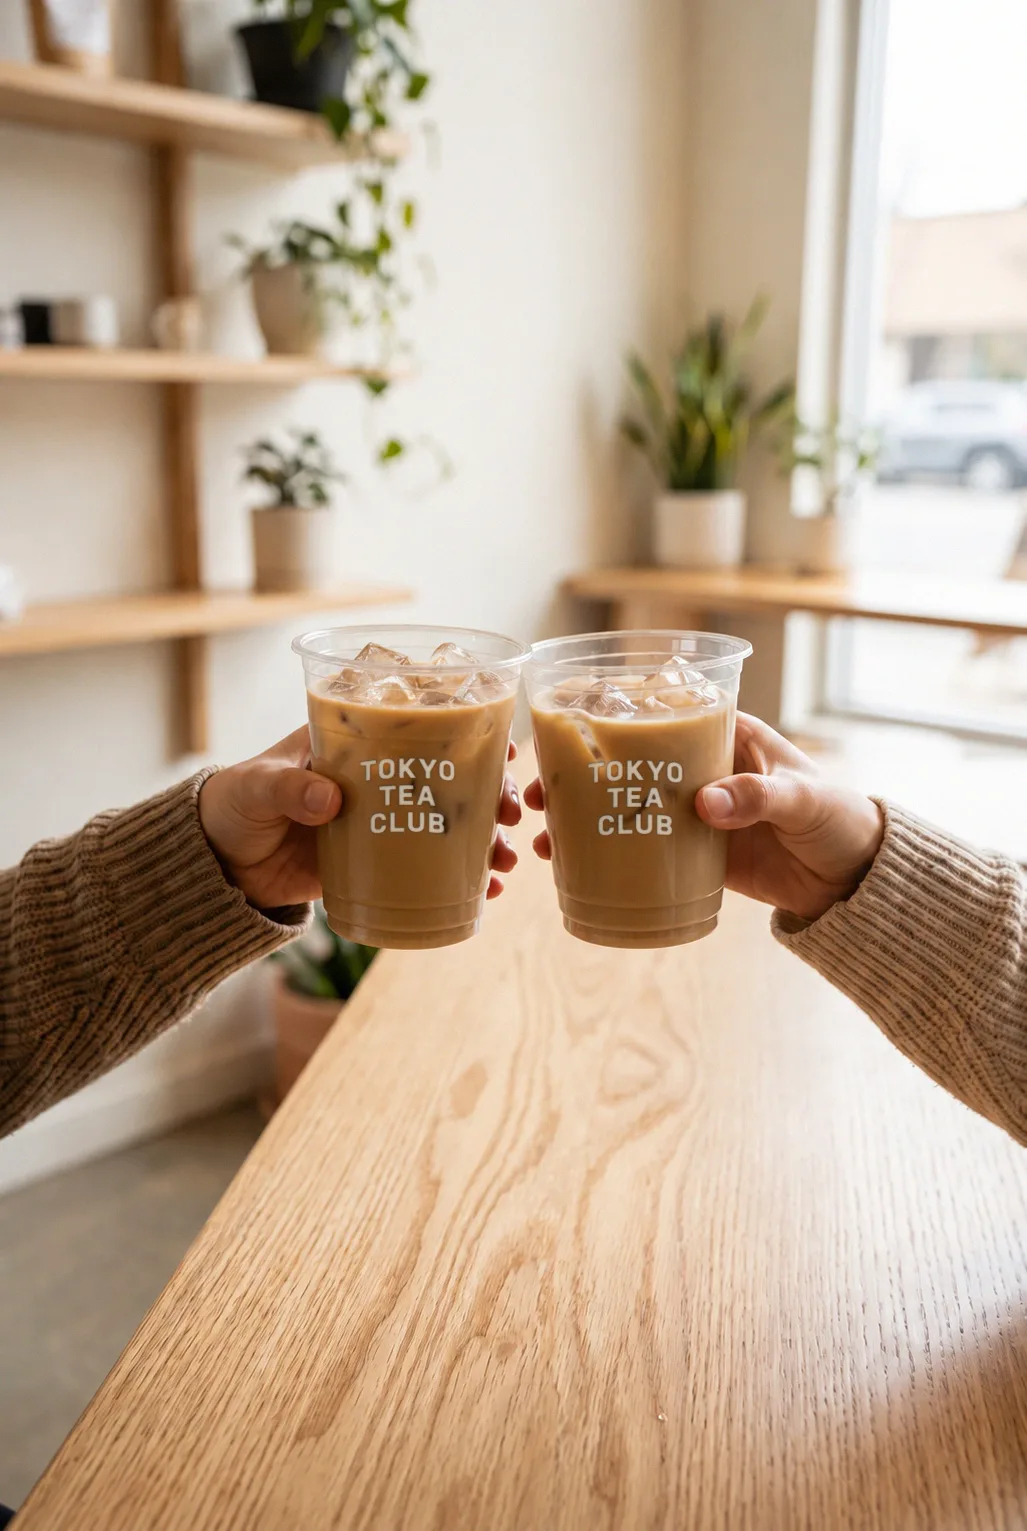
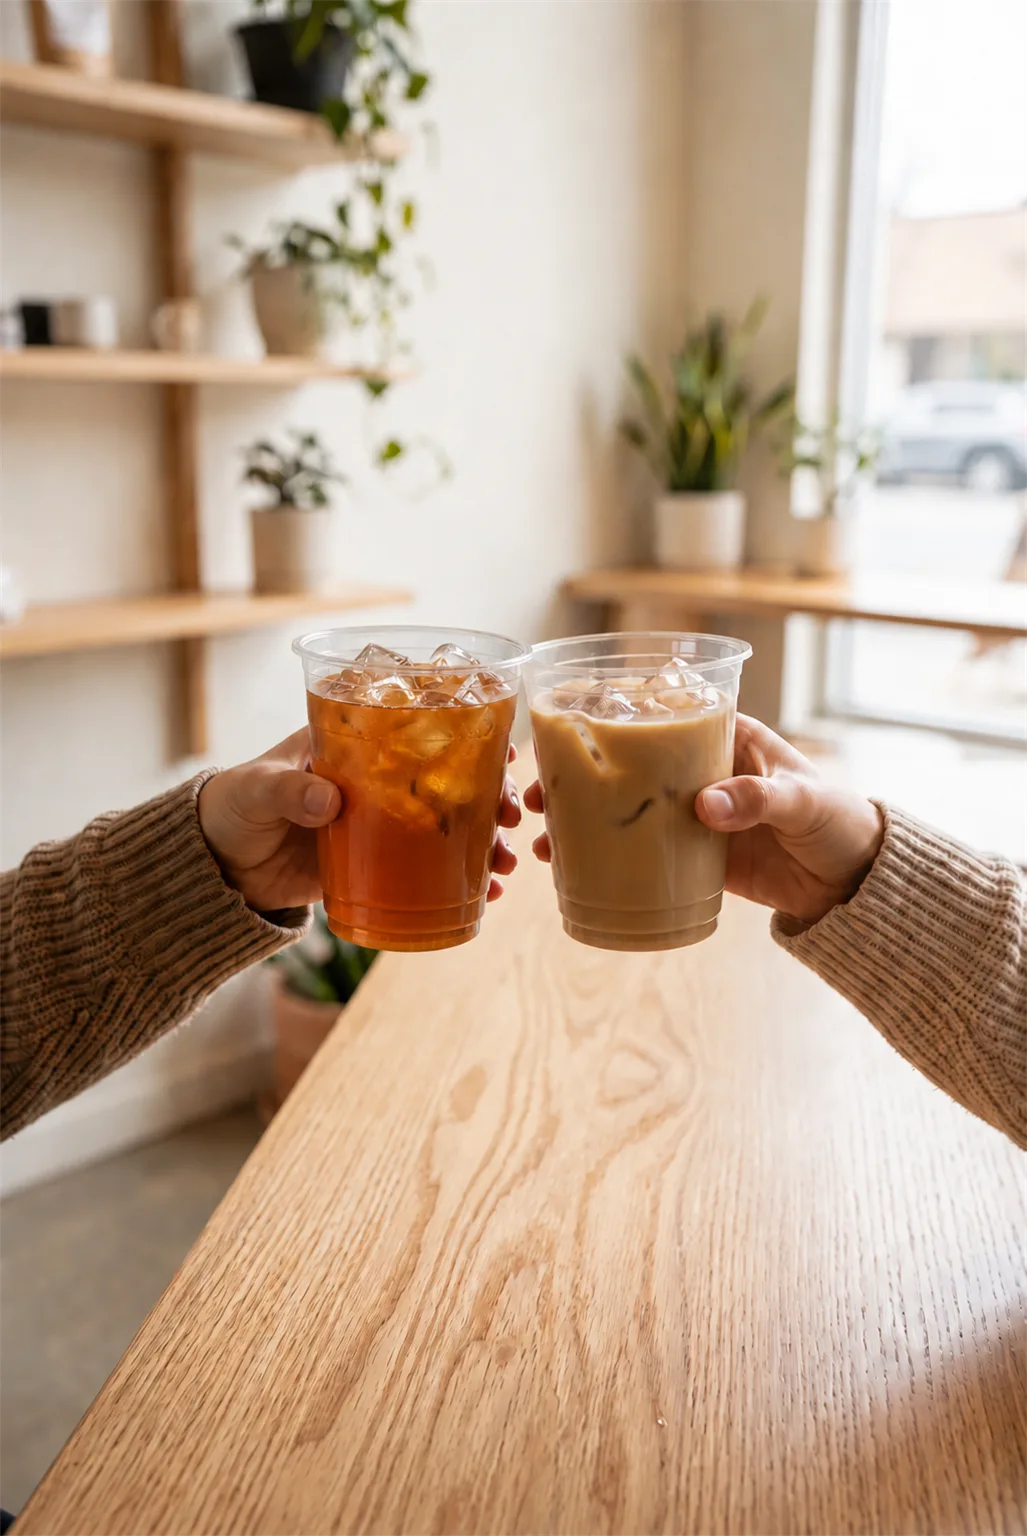
TEA TIMEはロゴなし・ストレートとミルクティーに、KOKUTOUは黒糖ほうじ茶ミルクティーに差し替え

diff --git a/index.html b/index.html
@@ -457,11 +457,11 @@
     <div class="panel-label"><div class="t">MATCHA</div><div class="s"><span class="ja">抹茶を、作法から自由に</span><span class="en">Free from ceremony</span></div></div>
   </div>
   <div class="panel">
-    <img src="/assets/kokuto.webp" alt="黒糖ミルク" loading="lazy">
+    <img src="/assets/kokuto.webp" alt="黒糖ほうじ茶ミルクティー" loading="lazy">
     <div class="panel-label"><div class="t">KOKUTOU</div><div class="s"><span class="ja">黒糖のコクを重ねて</span><span class="en">Layered with brown sugar</span></div></div>
   </div>
   <div class="panel">
-    <img src="/assets/life-cheers.webp" alt="ほうじ茶ミルクティーで乾杯" loading="lazy">
+    <img src="/assets/life-cheers.webp" alt="ストレートティーとミルクティーで乾杯" loading="lazy">
     <div class="panel-label"><div class="t">TEA TIME</div><div class="s"><span class="ja">店内でも、テイクアウトでも</span><span class="en">For here or to go</span></div></div>
   </div>
 </div>
